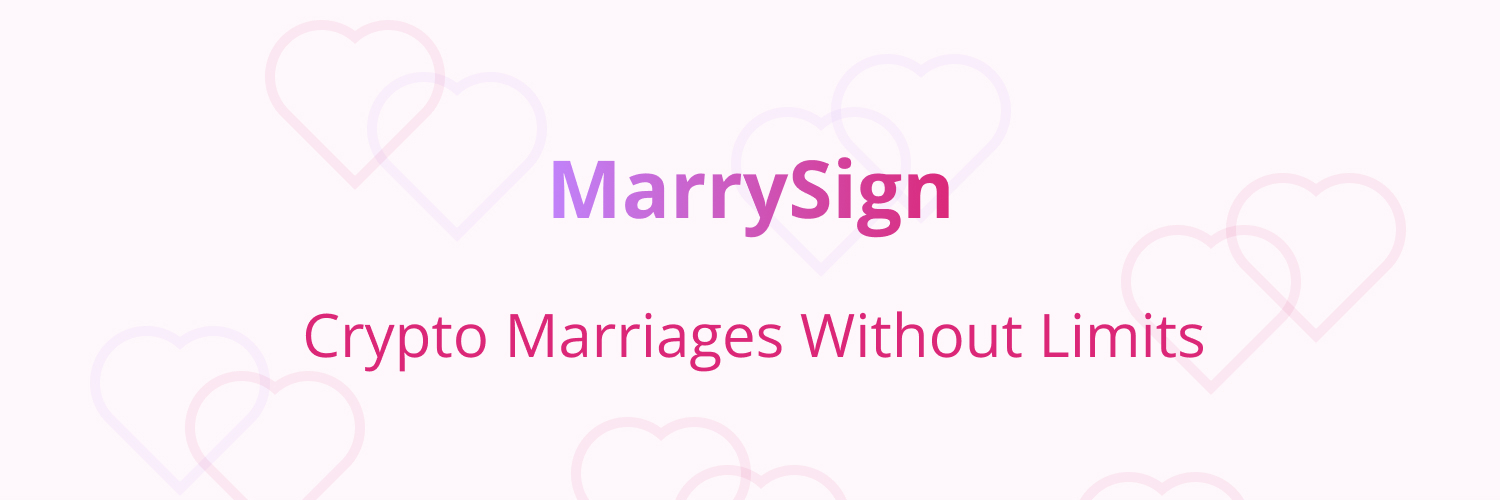
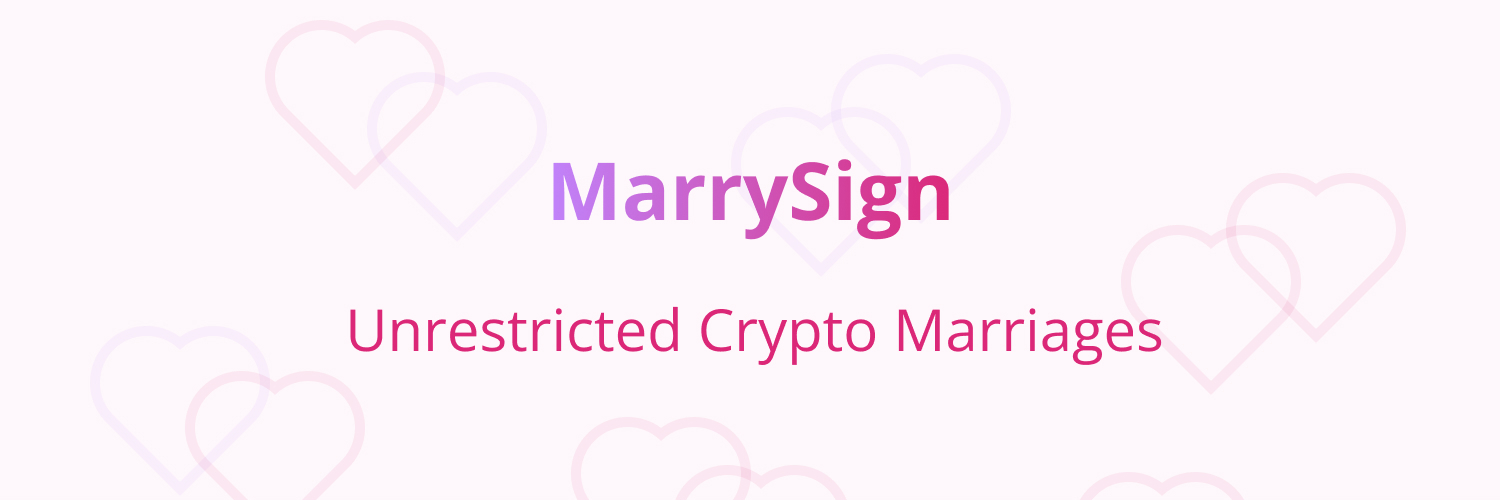
Changed site slogan and updated the ogimage accordingly.

diff --git a/lib/config/index.ts b/lib/config/index.ts
@@ -5,7 +5,7 @@ export const APP_URL: string =
     : 'http://localhost:3000'
 // export const APP_DESCRIPTION: string =
 //   'We empower any couple to register marriage online'
-export const APP_DESCRIPTION: string = 'Crypto Marriages Without Limits'
+export const APP_DESCRIPTION: string = 'Unrestricted Crypto Marriages'
 export const APP_SLOGAN: string =
   'Closer than Copenhagen & quicker than Las Vegas'
 // No @ in Twitter handle, please.

diff --git a/pages/index.tsx b/pages/index.tsx
@@ -80,7 +80,7 @@ const Home: NextPage = () => {
         <div className="flex flex-row justify-center py-4 mt-5">
           {isDisconnected || userAgreement == null ? (
             <ButtonLink href="/create" size="large" color="secondary">
-              Get crypto-married
+              Get crypto married
             </ButtonLink>
           ) : (
             <ButtonLink
